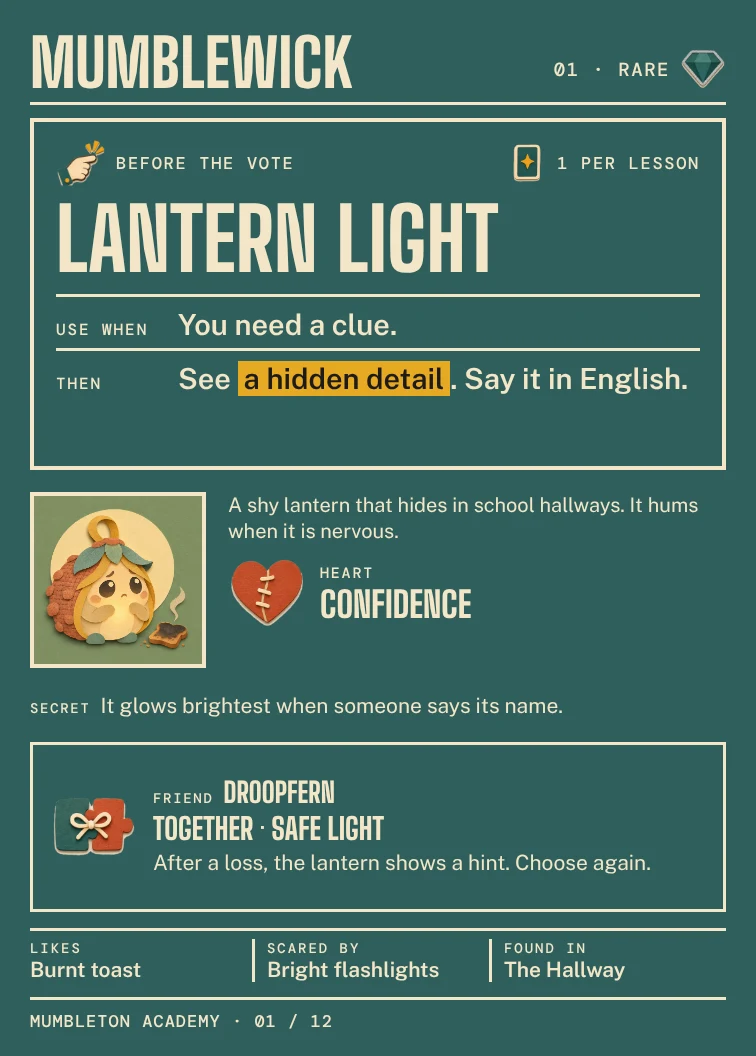
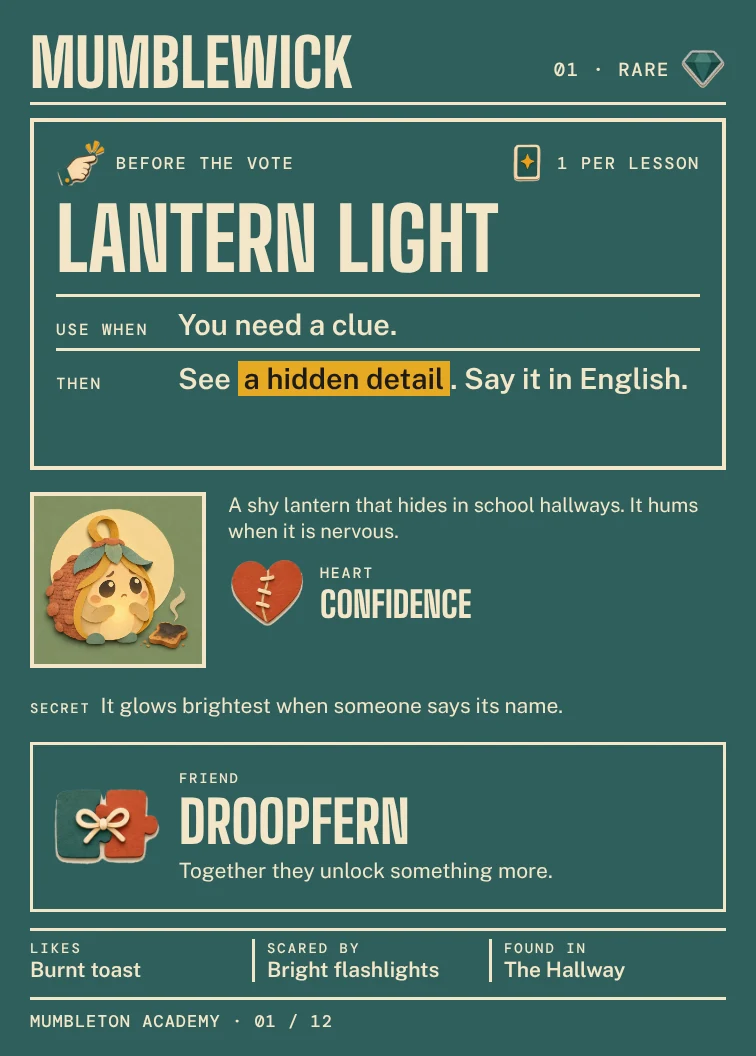
Mumbleton: versos com quadro de amigo simples (efeito da dupla vai para o Magic Book)
Claude-Session: https://claude.ai/code/session_01WUTQBVFXRKvNy6Sg3Pwcvz

Changed region(s): [[0.0608, 0.7188, 0.8519, 0.8438]]

diff --git a/public/mumbleton/apresentacao.html b/public/mumbleton/apresentacao.html
@@ -339,12 +339,12 @@ ol li b{display:block;font:800 46px/1.05 BSD;text-transform:uppercase;color:var(
   </div>
 </section></div>
 
-<div class="pw"><section class="s light" data-notes="O verso da criatura agora serve a todos os níveis, como os aprendizes. Saem a unidade do livro e as três estruturas do Kids 6. As frases de cada nível vão numa folha por unidade. Agora o poder fica em destaque: quando usar e o que acontece, num molde igual em todas as cartas. O lore fica pequeno embaixo, com o Heart, o segredo e o amigo. Saiu o Caught on, porque o app guarda a data da captura. Exemplo: Snapcase e Mumblewick.">
+<div class="pw"><section class="s light" data-notes="O verso da criatura agora serve a todos os níveis, como os aprendizes. Saem a unidade do livro e as três estruturas do Kids 6. As frases de cada nível vão numa folha por unidade. Agora o poder fica em destaque: quando usar e o que acontece, num molde igual em todas as cartas. O lore fica pequeno embaixo, com o Heart, o segredo e o nome do amigo. O que a dupla faz junta só aparece no Magic Book do app. Saiu o Caught on, porque o app guarda a data da captura. Exemplo: Snapcase e Mumblewick.">
   <div class="k" style="left:128px;top:128px">O verso da criatura</div>
   <h2 style="left:128px;top:200px;width:820px;font-size:100px">Um verso só, para todos os níveis.</h2>
   <p style="left:128px;top:600px;width:780px;font-size:34px"><b>Sai</b> a unidade do livro e as frases de cada nível. Elas vão numa folha por unidade.</p>
   <p style="left:128px;top:750px;width:780px;font-size:34px"><b>Entra</b> o poder em destaque: quando usar e o que acontece.</p>
-  <p style="left:128px;top:900px;width:780px;font-size:28px">O lore (Heart, segredo e amigo) fica pequeno embaixo. Exemplo: Snapcase e Mumblewick.</p>
+  <p style="left:128px;top:900px;width:780px;font-size:28px">O lore (Heart, segredo e nome do amigo) fica pequeno embaixo; o efeito da dupla fica no Magic Book. Exemplo: Snapcase e Mumblewick.</p>
   <img src="neutro/n02.webp" alt="Verso novo da Snapcase" class="shot" style="left:950px;top:130px;width:440px;height:614px">
   <img src="neutro/n01.webp" alt="Verso novo da Mumblewick" class="shot" style="left:1410px;top:230px;width:440px;height:614px">
 </section></div>
